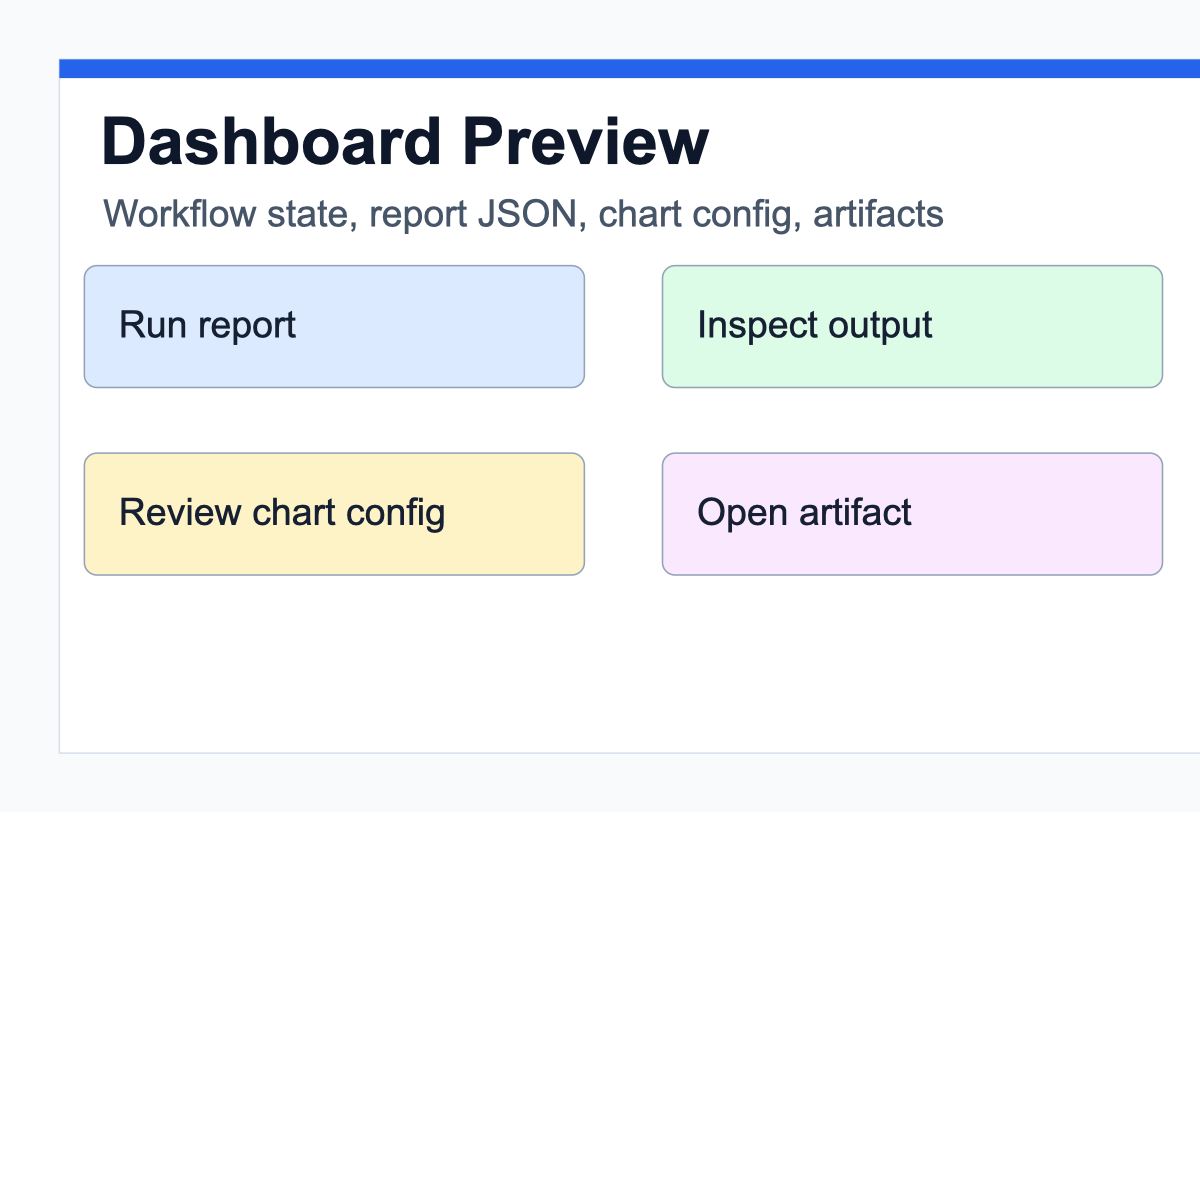
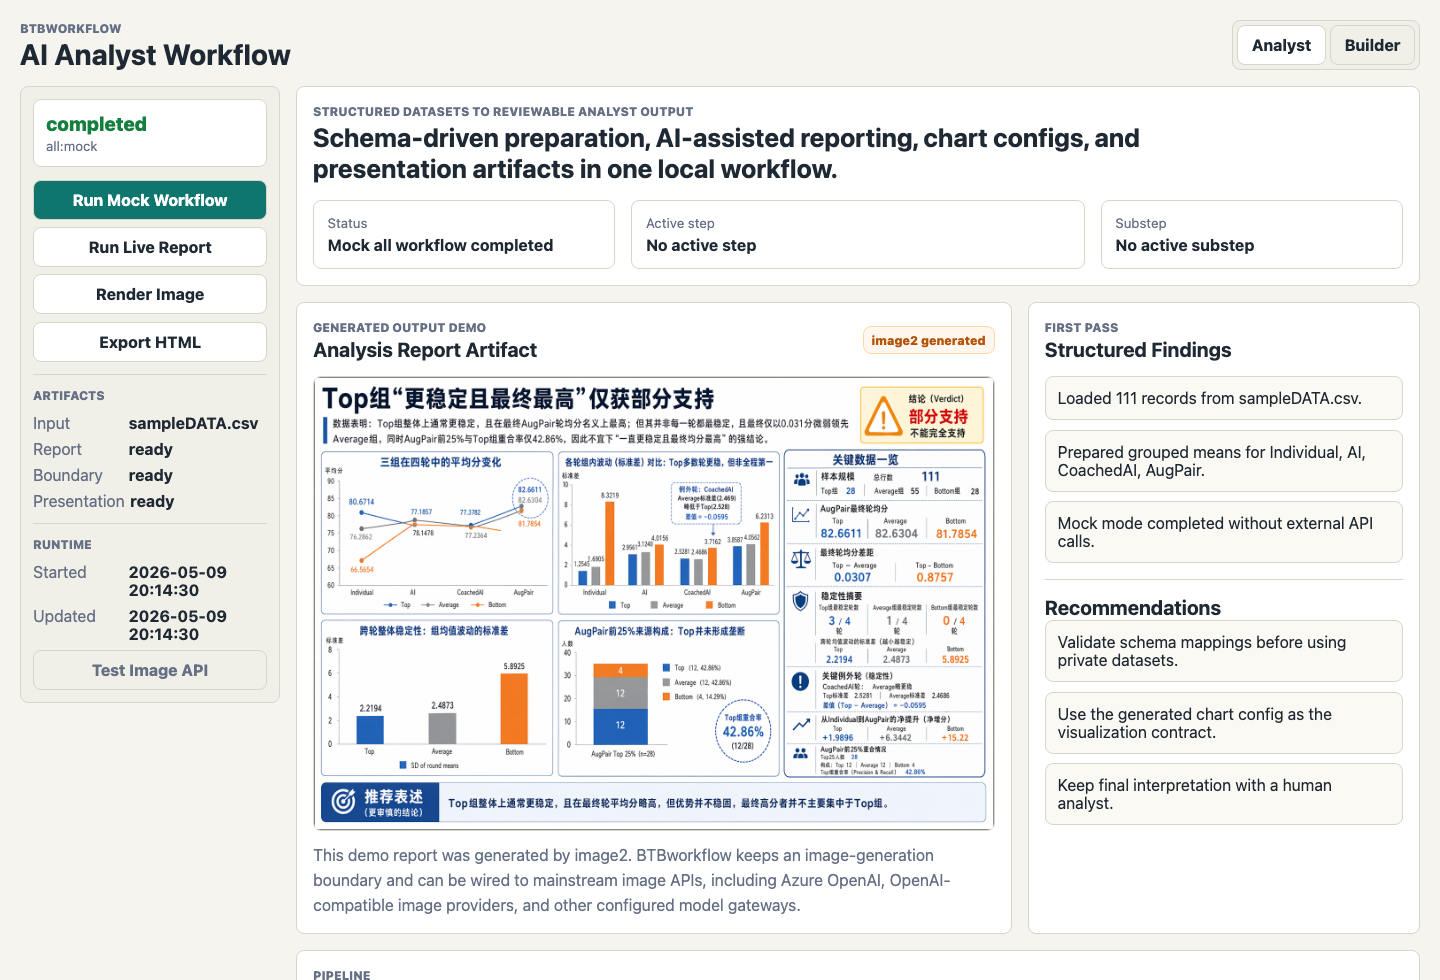
docs: refresh README visuals

diff --git a/README.md b/README.md
@@ -14,7 +14,7 @@ The demo is routed through Cloudflare Tunnel to a mock-mode workflow instance.
 It is intended for recruiter review, portfolio walkthroughs, and lightweight
 product demonstrations, not production use.
 
-![Dashboard preview](docs/assets/dashboard-preview.png)
+![BTBworkflow dashboard preview](docs/assets/dashboard-preview.png)
 
 ## Context for Reviewers
 
@@ -81,7 +81,7 @@ E --> F[Presentation Artifact]
 F --> G[Dashboard Review]
 ```
 
-![Workflow diagram](docs/assets/workflow-diagram.png)
+![BTBworkflow workflow diagram](docs/assets/workflow-diagram.png)
 
 ## Quick Start: Mock Mode
 
@@ -161,9 +161,12 @@ Safe publishable examples are in `examples/`:
 - `examples/sample_chart_config.json`
 - `examples/sample_report.html`
 
-![Report preview](docs/assets/report-preview.png)
+![BTBworkflow image2 report preview](docs/assets/report-preview.png)
 
-The example output demonstrates the intended contract: a report JSON for narrative review plus a chart config that a dashboard or presentation renderer can consume directly.
+The example output demonstrates the intended contract: a report JSON for
+narrative review plus a chart config that a dashboard or presentation renderer
+can consume directly. The report preview is an image2-generated demonstration
+artifact, matching the dashboard's image-generation boundary.
 
 ## Project Structure
 